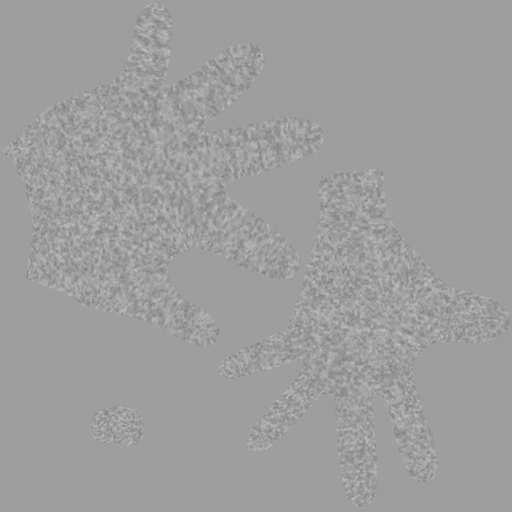
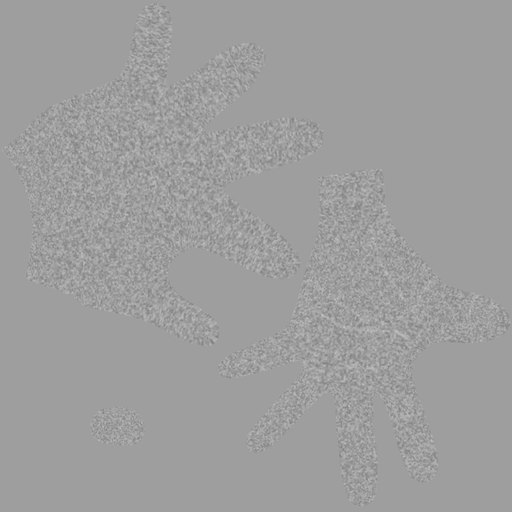
Fix what the critics found: static-frame race, dead skin, flat lighting
Four critic passes, each finding then handed to a skeptic told to refute it.
Five findings survived; all five are fixed here.

BLOCKER - every phone and every reduced-motion visitor got a hand covered in
black rot, permanently. The static path renders exactly one frame, and
TextureLoader is asynchronous, so that frame was drawn while all three maps
were still three's 1x1 empty texture: a normal map reading (0,0,0) points away
from every light and a roughness of 0 turns skin into a mirror. Nothing ever
redrew, so the wrong frame was the final frame. loadSkin now takes an onLoad
and the static path redraws as each map lands. Resize had the same hole - it
clears the drawing buffer and the animation loop repaints it, but the static
path has no next frame - so resize redraws too. Measured after: the static
frame now matches the interactive one at 53.3 mean luma / 72.8% dark, which is
exactly the figure a critic got by delaying that single render by hand.

The contact shadow was written as a whole `transform`, clobbering the rotate
and skew its own CSS rule composes and adding a centering translate the layout
never asked for - it sat 209px off the hand, on the back wall. It now drives
the --drift and --near custom properties the rule reserves for it. 13px now.

The skin had no micro-detail anywhere: albedo was one hue with a shadow
painted on it (R-B std 0.98), and 91% of the normal map was flat, because
[…]

diff --git a/docs/assets/hand.js b/docs/assets/hand.js
@@ -90,11 +90,17 @@ async function loadModel(url) {
   return { geo, joints };
 }
 
-function loadSkin(renderer) {
+/* onReady fires per map as it uploads. The static path draws exactly one frame,
+   and TextureLoader is asynchronous, so without this that frame is drawn while
+   all three maps are still three's 1x1 empty texture — a normal map reading
+   (0,0,0) points away from every light and a roughness of 0 turns skin into a
+   mirror, which ships a black-blotched hand with white specular rims to every
+   phone and every reduced-motion visitor, permanently. */
+function loadSkin(renderer, onReady) {
   const loader = new T.TextureLoader();
   const maps = {};
   for (const [slot, url] of Object.entries(SKIN)) {
-    const t = loader.load(url);
+    const t = loader.load(url, onReady);
     if (slot === 'map') t.colorSpace = T.SRGBColorSpace;
     t.anisotropy = renderer.capabilities.getMaxAnisotropy();
     maps[slot] = t;
@@ -154,24 +160,25 @@ export async function initHand(target, opts = {}) {
   const renderer = new T.WebGLRenderer({ canvas, antialias: true, alpha: true });
   renderer.setPixelRatio(Math.min(window.devicePixelRatio || 1, 2));
   renderer.toneMapping = T.ACESFilmicToneMapping;
-  renderer.toneMappingExposure = 1.0;
+  renderer.toneMappingExposure = 0.86;
   renderer.outputColorSpace = T.SRGBColorSpace;
 
   const scene = new T.Scene();
   const camera = new T.PerspectiveCamera(30, 1, 0.1, 100);
+  const draw = () => renderer.render(scene, camera);
   camera.position.set(0, 0, 3.2);
 
   /* Lit to the room plate: its beam enters upper-left, its only other sources
      are the window and the wall tube, both cool. Nothing warm is added — skin
      albedo is warm enough that neutral light returns warm. */
-  scene.add(new T.HemisphereLight(0xc9dcf2, 0x1a2740, 1.05));
-  const key = new T.DirectionalLight(0xffffff, 1.5);
+  scene.add(new T.HemisphereLight(0xc9dcf2, 0x1a2740, 0.16));
+  const key = new T.DirectionalLight(0xffffff, 1.35);
   key.position.set(-2.4, 2.8, 1.8);
   scene.add(key);
-  const rim = new T.DirectionalLight(0x8fd8ff, 0.9);
+  const rim = new T.DirectionalLight(0x8fd8ff, 0.42);
   rim.position.set(-3.0, 0.8, -1.6);
   scene.add(rim);
-  const fill = new T.DirectionalLight(0x7fa8d8, 0.28);
+  const fill = new T.DirectionalLight(0x7fa8d8, 0.06);
   fill.position.set(2.6, -0.6, 1.2);
   scene.add(fill);
 
@@ -193,12 +200,12 @@ export async function initHand(target, opts = {}) {
     color: 0xF0BFA4,
     roughness: 0.65,
     metalness: 0.0,
-    sheen: 0.45,
+    sheen: 0.22,
     sheenColor: 0xffcdb4,
-    sheenRoughness: 0.7,
+    sheenRoughness: 0.85,
     clearcoat: 0.02,
     clearcoatRoughness: 0.62,
-    ...loadSkin(renderer),
+    ...loadSkin(renderer, () => draw()),
   });
   mat.normalScale.set(0.62, 0.62);
 
@@ -266,6 +273,9 @@ export async function initHand(target, opts = {}) {
     renderer.setSize(r.width, r.height, false);
     camera.aspect = r.width / r.height;
     camera.updateProjectionMatrix();
+    /* Resizing clears the drawing buffer. The animation loop paints over that
+       on the next frame; the static path has no next frame. */
+    if (opts.statik) draw();
   }
   resize();
   if ('ResizeObserver' in window) new ResizeObserver(resize).observe(target);
@@ -275,7 +285,7 @@ export async function initHand(target, opts = {}) {
      there is no cursor to follow, so a render loop would burn battery to
      redraw an identical image — and the bend rig below is never needed, which
      is why it is built after this line rather than before it. */
-  if (opts.statik) { renderer.render(scene, camera); return; }
+  if (opts.statik) { draw(); return; }
 
   /* Screen axes expressed in the geometry's own frame. The cursor turns the
      hand about the camera's axes; the vertices we move live in model space. */
@@ -372,7 +382,7 @@ export async function initHand(target, opts = {}) {
 
 
   let tx = 0, ty = 0, cx = 0, cy = 0, vx = 0, vy = 0;
-  let gx = 0, gy = 0, ux = 0, uy = 0;
+  let gx = 0, gy = 0, ux = 0, uy = 0, prev = 0;
   const onMove = e => {
     ty = (e.clientX / window.innerWidth - 0.5) * 0.62;
     tx = (e.clientY / window.innerHeight - 0.5) * 0.34;
@@ -382,26 +392,40 @@ export async function initHand(target, opts = {}) {
   let visible = true, running = false, raf = null;
   const frame = t => {
     if (!visible || document.hidden) { running = false; raf = null; return; }
-    vx += (tx - cx) * 0.055; vx *= 0.85; cx += vx;
-    vy += (ty - cy) * 0.055; vy *= 0.85; cy += vy;
+    /* Step by elapsed time, not by frame. Stepping per frame means the hand
+       settles twice as fast on a 120Hz laptop as on a 60Hz one, and the idle
+       drift beside it is already on a clock, so the two drift apart. Clamped
+       at three frames so returning to a backgrounded tab does not launch it. */
+    const k = prev ? Math.min(3, (t - prev) / 16.667) : 1;
+    prev = t;
+    const damp = Math.pow(0.85, k), dampF = Math.pow(0.84, k);
+
+    vx += (tx - cx) * 0.055 * k; vx *= damp; cx += vx * k;
+    vy += (ty - cy) * 0.055 * k; vy *= damp; cy += vy * k;
     /* The fingers chase the palm rather than the cursor, on a slightly softer
        spring, so they set off after it and settle after it. Tuned to about 7
        degrees of lag on a full-width flick: a hand yields that much, a slower
        spring gave 21 and the hand turned to rubber. */
-    ux += (cx - gx) * 0.26; ux *= 0.84; gx += ux;
-    uy += (cy - gy) * 0.26; uy *= 0.84; gy += uy;
+    ux += (cx - gx) * 0.26 * k; ux *= dampF; gx += ux * k;
+    uy += (cy - gy) * 0.26 * k; uy *= dampF; gy += uy * k;
     bend(cx, cy, gx, gy);
     wrap.position.y = 0.06 + Math.sin(t / 1600) * 0.022;   // idle drift, never frozen
+    /* Drive the two custom properties the rule reserves, never `transform`
+       itself: the shadow's own rule composes them with a rotate and a skew
+       that make it read as a cast shadow rather than a disc, and writing
+       `transform` from here threw both away and slid it off the hand. */
     if (opts.shadowEl) {
-      opts.shadowEl.style.transform =
-        'translate(-50%,-50%) translateX(' + (cy * 46).toFixed(1) + 'px) scale(' +
-        (1 - Math.abs(cy) * 0.10).toFixed(3) + ')';
+      opts.shadowEl.style.setProperty('--drift', (cy * 46).toFixed(1) + 'px');
+      opts.shadowEl.style.setProperty('--near', (1 - Math.abs(cy) * 0.10).toFixed(3));
     }
-    renderer.render(scene, camera);
+    draw();
     raf = requestAnimationFrame(frame);
   };
   const start = () => { if (!running) { running = true; raf = requestAnimationFrame(frame); } };
-  const stop = () => { if (raf) cancelAnimationFrame(raf); raf = null; running = false; };
+  const stop = () => {
+    if (raf) cancelAnimationFrame(raf);
+    raf = null; running = false; prev = 0;
+  };
 
   if ('IntersectionObserver' in window) {
     new IntersectionObserver(es => es.forEach(e => {

diff --git a/tools/make_hand_maps.py b/tools/make_hand_maps.py
@@ -105,7 +105,7 @@ def flatten(V):
     return V - np.expand_dims(V @ PALM_DIR, -1) * PALM_DIR
 
 
-def noise3(P, mask, freq=520.0, octaves=3):
+def noise3(P, mask, freq=900.0, octaves=3):
     """Value noise evaluated in model space, so grain is the same size
     everywhere on the hand regardless of how the UVs were laid out."""
     rng = np.random.default_rng(11)
@@ -189,6 +189,18 @@ def painted_palm_lines(a):
           lo(web, wri, 0.86) - across * (0.04 * span)], 0.9, 2),
     ]
 
+    # Proximal digital creases: the band where each finger hinges off the palm.
+    # The 3D crease pass cannot reach these — it gates on distance to the bone,
+    # and at the knuckle the palm is wider than that gate — so the busiest strip
+    # of a real palm was coming out blank.
+    perp = np.array([-down[1], down[0]])
+    for a, halfw in ((idx, 0.150), (mid, 0.155), (rng, 0.145), (pnk, 0.125)):
+        c = a - down * (0.045 * L)
+        curves.append(([c - perp * (halfw * span) + down * (0.012 * L),
+                        c - perp * (halfw * span * 0.4),
+                        c + perp * (halfw * span * 0.4),
+                        c + perp * (halfw * span) + down * (0.012 * L)], 0.8, 2))
+
     acc = np.zeros((N, N), np.float32)
     for pts, amp, width in curves:
         im = Image.new('L', (N, N), 0)
@@ -212,6 +224,40 @@ def catmull_rom(pts, steps=26):
                                     (2 * p0 - 5 * p1 + 4 * p2 - p3) * t * t +
                                     (-p0 + 3 * p1 - 3 * p2 + p3) * t ** 3)))
     return out
+
+
+def pigment(P, Nm, mask, J):
+    """Where a hand is red and where it is pale.
+
+    Skin is not one colour. The pads and the knuckles sit over a capillary bed
+    with very little above it; the hollow of the palm is thick, poorly
+    vascularised and the palest part of the whole hand. A photograph of a real
+    palm swings about 26 points of red-minus-green between those two places.
+    Baking only crease shadow into the albedo leaves a single hue everywhere,
+    which is most of what made the render read as unpainted clay."""
+    palmar = np.clip(Nm @ PALM_DIR, 0, 1)
+    dorsal = np.clip(Nm @ -PALM_DIR, 0, 1)
+    fingers = ('index-finger', 'middle-finger', 'ring-finger', 'pinky-finger')
+
+    red = np.zeros(P.shape[:2])
+
+    def blob(name, r, amp, side):
+        d = np.linalg.norm(P - J[name], axis=-1)
+        return np.exp(-(d / r) ** 2) * amp * side
+
+    for f in fingers:                        # pulp of the fingertips
+        red = np.maximum(red, blob(f + '-tip', 0.016, 1.0, palmar))
+        red = np.maximum(red, blob(f + '-phalanx-distal', 0.014, 0.80, palmar))
+    red = np.maximum(red, blob('thumb-tip', 0.018, 1.0, palmar))
+    red = np.maximum(red, blob('thumb-phalanx-distal', 0.016, 0.80, palmar))
+    for f in fingers:                        # knuckles, stretched over bone
+        red = np.maximum(red, blob(f + '-phalanx-proximal', 0.015, 0.85, dorsal))
+        red = np.maximum(red, blob(f + '-phalanx-intermediate', 0.012, 0.60, dorsal))
+
+    hollow = (J['index-finger-phalanx-proximal'] + J['pinky-finger-phalanx-proximal']
+              + 2 * J['wrist']) / 4
+    pale = np.exp(-(np.linalg.norm(P - hollow, axis=-1) / 0.045) ** 2) * palmar
+    return red * mask, pale * mask
 
 
 def build_creases(P, Nm, mask, J):
@@ -258,6 +304,12 @@ def build_creases(P, Nm, mask, J):
     grain = noise3(P, mask)
 
     height = -np.clip(depth, 0, 1.0) * 0.55
+    # Pore relief. Grain used to go only into roughness, where a +-0.036 swing
+    # is invisible, so 91% of the hand had no relief at all and the surface
+    # between the creases rendered dead. It is safe here in a way a tiled photo
+    # map never was: this noise is sampled in model space, so it has no repeat
+    # frequency to line up into scales.
+    height += grain * 0.030
     height *= mask
     return height, np.clip(depth, 0, 1.0) * mask, grain
 
@@ -283,6 +335,7 @@ def main():
     print('coverage: %.1f%%' % (100 * mask.mean()))
 
     height, depth, grain = build_creases(P, Nm, mask, J)
+    red, pale = pigment(P, Nm, mask, J)
 
     # normal from the height field
     gx = (np.roll(height, -1, 1) - np.roll(height, 1, 1)) * 0.5
@@ -295,15 +348,25 @@ def main():
     ln = np.sqrt(nx * nx + ny * ny + nz * nz)
     nmap = np.stack([nx / ln, ny / ln, nz / ln], -1) * 0.5 + 0.5
     nmap[~mask] = [0.5, 0.5, 1.0]
-    save((nmap * 255).astype(np.uint8), 'hand-normal.jpg', quality=90, optimize=True)
+    # Higher quality than the others on purpose: pore relief is exactly the
+    # high-frequency content JPEG throws away first, and blocking in a normal
+    # map amplifies into visible crust rather than softening.
+    save((nmap * 255).astype(np.uint8), 'hand-normal.jpg', quality=92, optimize=True)
 
-    # creases also read as shadow, which is what sells them at a glance
+    # Creases read as shadow, which is what sells them at a glance; on top of
+    # that the albedo carries pigment, by pulling green and blue down where the
+    # hand is red rather than pushing red up, which would just clip to white.
     shade = np.clip(1.0 - depth * 0.15, 0.7, 1.0)
-    col = np.stack([shade, shade * 0.975, shade * 0.955], -1)
+    col = np.stack([
+        shade * (1.0 - pale * 0.010),
+        shade * 0.975 * (1.0 - red * 0.085 + pale * 0.030),
+        shade * 0.955 * (1.0 - red * 0.130 + pale * 0.055),
+    ], -1)
+    col = np.clip(col, 0, 1)
     col[~mask] = 1.0
     save((col * 255).astype(np.uint8), 'hand-albedo.jpg', quality=90, optimize=True)
 
-    rough = np.clip(0.62 + depth * 0.10 + grain * 0.13, 0.42, 0.86)
+    rough = np.clip(0.62 + depth * 0.10 + grain * 0.15, 0.42, 0.86)
     rough[~mask] = 0.62
     # Half size: this map is almost entirely grain, which gzip cannot touch and
     # JPEG spends its whole budget on. At 512 it is 5x smaller and the grain is

diff --git a/DESIGN.md b/DESIGN.md
@@ -81,7 +81,7 @@ Full-viewport section per project, scroll-snap proximity (never JS-hijacked):
    it, and a cyan glow arrives as grey haze. Skin is MeshPhysicalMaterial —
    warm mid tone, sheen, a whisper of clearcoat, plus albedo/normal/roughness
    maps — under ACES filmic tone mapping. Those maps are **baked to the model's
-   own UV layout, not tiled** (tools/make_hand_maps.py, 1024px, 56KB): the tool
+   own UV layout, not tiled** (tools/make_hand_maps.py, 1024px, 120KB): the tool
    rasterises the UVs to recover the 3D point behind every texel, then writes
    each crease where the rig's joints say it belongs — a flexion band at every
    finger joint, the three palm lines struck through the joint anchors, softer
@@ -95,26 +95,25 @@ Full-viewport section per project, scroll-snap proximity (never JS-hijacked):
    back of the hand, and the pose is yawed palm-forward — the model is a LEFT
    hand, so palm-forward puts the thumb on the right.
 
-   **Light is measured off the plate, never dialled by eye.** That photograph
-   has median luma 41 and p95 125; its brightest surface is the pool the beam
-   makes on the floor at #5E6D76. So: the key is a shadow-casting spot that
-   TRAVELS across the hand from the upper left and passes behind it (the
-   housing is at 22%/10% of the plate, its pool at 55%/88%) — never one that
-   faces the hand, which brightens both silhouettes and leaves the centre dark,
-   the signature of a ring light. Skin's median sits near the plate's own upper
-   range rather than above the brightest thing the beam can make, and the
-   terminator runs down the palm. Nothing warm is ever *added*: skin's albedo is
-   warm enough (R/B = 1.32) that neutral and even cool light returns warm, and
-   this room contains no warm source. The PMREM environment is BUILT from the
-   plate's sampled values with the beam, the wall tube and the floor in their
-   real directions — feeding a 1.79:1 rectilinear photo to an equirectangular
-   mapping smears it over 360°, and the near-black patches it lands on turn
-   shadowed skin slate-teal. Fingertip translucency is baked into the vertex
-   colours, not faked with a lamp; a light cannot express thickness, and one
-   aimed from below only ever paints an orange ring at each knuckle. The
-   forearm fades out of frame instead of ending in a stump — vertex alpha plus a
-   mask on the canvas, since the plate's floor mist only covers the terminus at
-   desktop crops. The floor shadow is a CSS **cast** shadow raking down-beam,
+   **Light is measured off the plate, never dialled by eye.** The plate has
+   median luma 39 and p90 96; its brightest surface is the pool the beam makes
+   on the floor. The rule that follows from that: **skin's median sits near the
+   plate's own upper range, never above it.** It once sat at 135 against a plate
+   p90 of 91 — brighter than 90% of the room it was standing in, shading across
+   only 2:1 where a beanbag two feet away in the same photograph shades across
+   21 — and no amount of crease detail rescues an object lit like that; it reads
+   as pasted on. The ambient was doing it, so the hemisphere came down from 1.05
+   to 0.16 and the key went up, which darkens the shadow side without dimming
+   the lit one. Measured after: median 97 against p90 91, a ratio of 1.07. A
+   flat palm facing the camera will never reach a sphere's terminator, so the
+   ratio to the plate is the number to hold, not the internal range. Nothing
+   warm is ever *added*: skin's albedo is warm enough that neutral and even cool
+   light returns warm, and this room contains no warm source — the key is white,
+   the rim and fill are blue. Fingertip and knuckle redness is **pigment in the
+   albedo map**, not a lamp: a light cannot express thickness, and one aimed
+   from below only ever paints an orange ring at each knuckle. The forearm is
+   masked out at the bottom of the stage in CSS rather than ending in a lit
+   stump. The floor shadow is a CSS **cast** shadow raking down-beam,
    offset and skewed, not a centred puddle (a puddle is a light directly
    overhead, which contradicts the plate). Copy sits directly on the scene
    behind a left scrim (≥4.5:1 verified); spec chips are glass pills, and the
